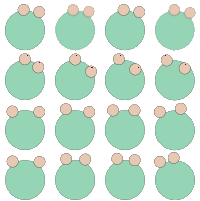
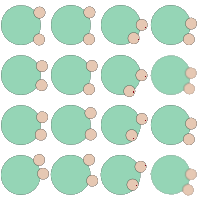
feat(personagem): personagem andando e girando com mouse

diff --git a/src/scenes/menu/menu.ts b/src/scenes/menu/menu.ts
@@ -4,6 +4,7 @@ import { PrimeiroMapa } from "../../map/map.logic";
 import { Loader } from "excalibur";
 import { Player } from "../../actors/player/player";
 import { vector } from "excalibur/dist/Util/DrawUtil";
+import { Pointer } from "excalibur/dist/Input";
 export class Menu extends ex.Scene {
   public onInitialize(engine: ex.Engine) {}
   public onActivate() {}
@@ -20,81 +21,34 @@ var tm = new PrimeiroMapa();
 tm.carregar();
 game.add(tm);
 game.currentScene.add(zombie);
-zombie.anchor.setTo(0.5, 0.5);
-const loader = new ex.Loader();
+zombie.x = game.halfDrawWidth;
+zombie.y = game.halfDrawHeight;
 
-game.input.keyboard.on("press", (keyDown?: ex.Input.KeyEvent) => {
+const loader = new ex.Loader();
+const passo = 10;
+
+game.input.pointers.primary.on("move", (pointers: ex.Input.PointerEvent) => {
+  let gamex = pointers.pos.x - zombie.pos.x;
+  let gamey = pointers.pos.y - zombie.pos.y;
+  zombie.rotation = Math.atan2(gamey, gamex);
+});
+
+game.input.keyboard.on("hold", (keyDown?: ex.Input.KeyEvent) => {
   if (keyDown.key === ex.Input.Keys.D) {
-    game.currentScene.camera
-      .move(
-        new ex.Vector(
-          game.currentScene.camera.x + 50,
-          game.currentScene.camera.y
-        ),
-        500,
-        ex.EasingFunctions.EaseInOutCubic
-      )
-      .then(() => {
-        zombie.actions.moveBy(
-          game.currentScene.camera.x,
-          game.currentScene.camera.y,
-          500
-        );
-      });
+    game.currentScene.camera.x += passo;
+    zombie.x += passo;
   }
   if (keyDown.key === ex.Input.Keys.A) {
-    game.currentScene.camera
-      .move(
-        new ex.Vector(
-          game.currentScene.camera.x - 50,
-          game.currentScene.camera.y
-        ),
-        500,
-        ex.EasingFunctions.EaseInOutCubic
-      )
-      .then(() => {
-        zombie.actions.moveBy(
-          game.currentScene.camera.x,
-          game.currentScene.camera.y,
-          500
-        );
-      });
+    game.currentScene.camera.x -= passo;
+    zombie.x -= passo;
   }
   if (keyDown.key === ex.Input.Keys.W) {
-    game.currentScene.camera
-      .move(
-        new ex.Vector(
-          game.currentScene.camera.x,
-          game.currentScene.camera.y - 50
-        ),
-        500,
-        ex.EasingFunctions.EaseInOutCubic
-      )
-      .then(() => {
-        zombie.actions.moveBy(
-          game.currentScene.camera.x,
-          game.currentScene.camera.y,
-          500
-        );
-      });
+    game.currentScene.camera.y -= passo;
+    zombie.y -= passo;
   }
   if (keyDown.key === ex.Input.Keys.S) {
-    game.currentScene.camera
-      .move(
-        new ex.Vector(
-          game.currentScene.camera.x,
-          game.currentScene.camera.y + 50
-        ),
-        500,
-        ex.EasingFunctions.EaseInOutCubic
-      )
-      .then(() => {
-        zombie.actions.moveBy(
-          game.currentScene.camera.x,
-          game.currentScene.camera.y,
-          500
-        );
-      });
+    game.currentScene.camera.y += passo;
+    zombie.y += passo;
   }
 });
 

diff --git a/src/index.ts b/src/index.ts
@@ -24,7 +24,7 @@ const player = new Player();
 player.set_animations(game);
 
 game.add("menu", menu);
-game.add("lv1", levelOne);
+//game.add("lv1", levelOne);
 
 let loader = new ex.Loader();
 
@@ -33,5 +33,5 @@ for (let key in Resources) {
 }
 
 game.start(loader).then(() => {
-  game.goToScene("lv1");
+  game.goToScene("menu");
 });

diff --git a/src/map/map.logic.ts b/src/map/map.logic.ts
@@ -8,8 +8,8 @@ export class PrimeiroMapa extends ex.TileMap {
     image: Resources.Areia,
     rows: 1,
     columns: 1,
-    spWidth: 50,
-    spHeight: 50
+    spWidth: 100,
+    spHeight: 100
   });
   tilesprite = new ex.TileSprite("root", 0);
 
